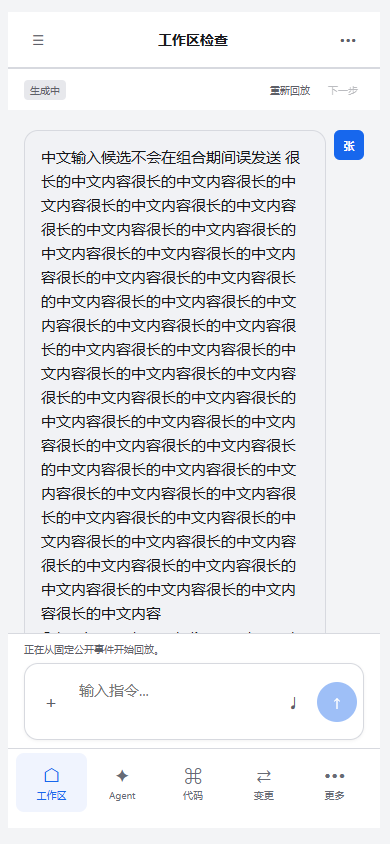
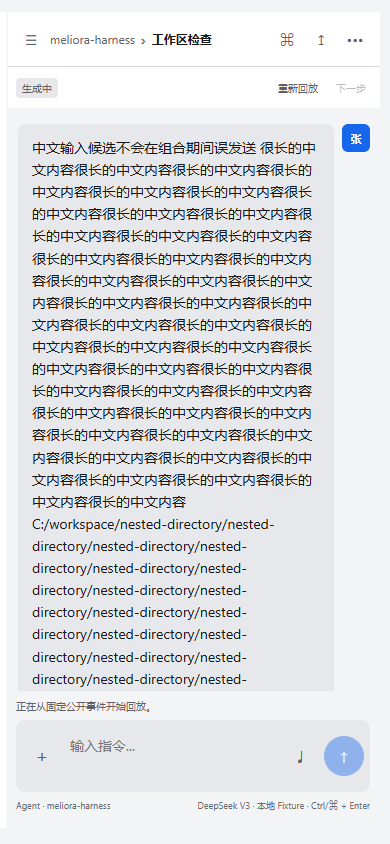
revert(web): restore responsive shell navigation

diff --git a/apps/web/src/dark-shell.css b/apps/web/src/dark-shell.css
@@ -18,7 +18,7 @@ button,input,textarea,select{font:inherit;color:inherit}button{border:0;backgrou
 
 .center-panel{display:flex;flex-direction:column;background:var(--page);border-inline:1px solid var(--line)}
 .conversation-header{height:58px;display:flex;align-items:center;justify-content:space-between;padding:0 20px;background:var(--panel);flex-shrink:0}.conversation-header>div{min-width:0;display:flex;align-items:center;gap:9px}.conversation-header span,.conversation-header strong{overflow:hidden;text-overflow:ellipsis;white-space:nowrap;font-size:12px}.conversation-header span{color:var(--secondary)}.conversation-header b{color:var(--muted)}.conversation-header nav{display:flex;gap:4px}.conversation-header button{width:30px;height:30px;border-radius:6px;color:var(--secondary)}
-.mobile-panel-button,.mobile-close,.mobile-backdrop,.mobile-bottom-nav{display:none}
+.mobile-panel-button,.mobile-close,.mobile-backdrop{display:none}
 .run-bar{height:39px;display:flex;align-items:center;gap:9px;padding:0 20px;color:var(--muted);font-size:10px;background:var(--panel);border-top:1px solid var(--line);flex-shrink:0}.run-bar button{margin-left:auto;color:var(--secondary);font-size:10px;padding:6px;border-radius:5px}.run-bar button+button{margin-left:0}.run-status{padding:3px 6px;border-radius:4px;background:var(--field);color:var(--secondary)}.run-status.completed{color:var(--green)}
 .message-stream{flex:1;min-height:0;overflow-y:auto;padding:30px 28px 36px;scrollbar-width:thin;scrollbar-color:var(--line) transparent}.message-column{width:min(760px,100%);margin:0 auto}.message{display:flex;gap:12px;margin-bottom:24px}.message-author{display:grid;place-items:center;width:30px;height:30px;flex-shrink:0;border-radius:6px;background:#343741;color:white;font-size:11px;font-weight:700}.message.user{flex-direction:row-reverse}.message.user .message-author{background:var(--blue)}.message-body{position:relative;max-width:86%;padding:17px 18px;border-radius:8px;background:var(--panel-2);line-height:1.65}.message.user .message-body{background:var(--field)}.message-body h2{margin:0 0 10px;font-size:16px}.message-body h3{margin:16px 0 7px;font-size:13px}.message-body p{margin:0}.message-body ul{margin:0;padding-left:19px}.message-body li{margin:5px 0}.message-actions{position:absolute;left:6px;bottom:-30px;display:flex;gap:3px;opacity:0;transform:translateY(-3px);transition:opacity 140ms ease,transform 140ms ease}.message:hover .message-actions,.message:focus-within .message-actions{opacity:1;transform:none}.message-actions button{padding:5px 7px;border-radius:5px;color:var(--muted);font-size:9px}.message-actions button[aria-pressed="true"]{color:var(--blue);background:var(--field)}
 .timeline-empty{display:grid;justify-items:center;align-content:center;min-height:52vh;padding:40px;text-align:center;color:var(--secondary)}.timeline-empty>span{display:grid;place-items:center;width:42px;height:42px;margin-bottom:14px;border-radius:8px;background:var(--field);color:var(--blue);font-size:20px}.timeline-empty h2{margin:0;color:var(--text);font-size:18px}.timeline-empty p{margin:8px 0 18px;font-size:12px}.timeline-empty button{padding:8px 12px;border-radius:6px;background:var(--field);color:var(--text);font-size:11px}.timeline-loading{position:relative;display:grid;grid-template-columns:30px minmax(0,1fr);gap:12px;align-items:start;margin:6px 42px 18px;color:var(--muted);font-size:10px}.timeline-loading .loading-avatar{width:30px;height:30px;border-radius:6px;background:var(--field);animation:loading-pulse 1.2s ease-in-out infinite}.timeline-loading>div{display:grid;gap:8px;padding-top:3px}.timeline-loading>div span{height:8px;border-radius:4px;background:var(--field);animation:loading-pulse 1.2s ease-in-out infinite}.timeline-loading>div span:nth-child(2){width:78%;animation-delay:100ms}.timeline-loading>div span:nth-child(3){width:52%;animation-delay:200ms}.timeline-loading p{grid-column:2;margin:0}@keyframes loading-pulse{50%{opacity:.45}}
@@ -41,8 +41,7 @@ dialog{border:0;color:var(--text);background:var(--panel-2)}dialog::backdrop{bac
 
 @media(max-width:1100px){.app-shell{grid-template-columns:230px minmax(520px,1fr) 0}.app-shell.sidebar-collapsed{grid-template-columns:56px minmax(520px,1fr) 0}.right-panel{display:flex;position:fixed;z-index:30;top:var(--safe-top);right:var(--safe-right);bottom:var(--safe-bottom);width:min(360px,90vw);height:auto;transform:translateX(105%);transition:transform 180ms ease}.app-shell.mobile-code-open .right-panel{transform:translateX(0)}.mobile-code-open .mobile-backdrop{display:block;position:fixed;inset:0;z-index:25;background:#0009}.mobile-code-trigger,.right-panel .mobile-close{display:block}.right-panel .mobile-close{position:absolute;z-index:4;right:7px;top:7px;width:30px;height:30px;border-radius:6px;background:var(--field)}}
 @media(max-width:768px),(orientation:landscape) and (max-height:500px){.app-shell,.app-shell.sidebar-collapsed{display:block}.left-panel,.right-panel{display:flex;position:fixed;z-index:30;top:var(--safe-top);bottom:var(--safe-bottom);width:min(360px,calc(100vw - var(--safe-left) - var(--safe-right) - 24px));height:auto;transition:transform 180ms ease}.left-panel{left:var(--safe-left);transform:translateX(-105%);align-items:stretch}.right-panel{right:var(--safe-right);transform:translateX(105%)}.app-shell.mobile-nav-open .left-panel,.app-shell.mobile-code-open .right-panel{transform:translateX(0)}.mobile-nav-open .mobile-backdrop,.mobile-code-open .mobile-backdrop{display:block;position:fixed;inset:0;z-index:25;background:#0009}.mobile-nav-trigger,.mobile-code-trigger{display:block}.sidebar-collapsed .sidebar-user{padding:10px 12px;justify-content:flex-start}.sidebar-collapsed .user-copy,.sidebar-collapsed .sidebar-user>.icon-button:not(.collapse-button),.sidebar-collapsed .sidebar-scroll,.sidebar-collapsed .sidebar-footer{display:flex}.sidebar-collapsed .sidebar-scroll{display:block}.sidebar-collapsed .user-copy{display:block}.sidebar-collapsed .sidebar-footer{display:block}.sidebar-collapsed .footer-tools,.sidebar-collapsed .team-card{display:flex}.sidebar-collapsed .collapse-button{position:static}.sidebar-collapsed .collapsed-rail{display:none}.center-panel{height:100%;border:0}.message-stream{padding:20px 12px}.event-flow{margin-inline:0}.message-body{max-width:90%}.composer-area{padding-inline:max(8px,var(--safe-left));padding-right:max(8px,var(--safe-right))}.composer-area form{grid-template-columns:32px minmax(0,1fr) 32px 38px}.model-picker{display:none}.conversation-header{padding-left:max(8px,var(--safe-left));padding-right:max(8px,var(--safe-right));gap:4px}.conversation-header>div{flex:1}.run-bar{padding-inline:12px}.message-actions{position:static;opacity:1;transform:none;margin-top:10px}}
-@media(max-width:768px),(orientation:landscape) and (max-height:500px){.left-panel{width:min(320px,80vw);border-radius:0 14px 14px 0;border-right:1px solid var(--line)}.right-panel{left:var(--safe-left);right:var(--safe-right);width:auto;border-radius:0;transform:translateX(105%)}.mobile-code-open .mobile-backdrop{background:transparent;pointer-events:none}.conversation-header{position:relative;height:56px;border-bottom:1px solid var(--line)}.conversation-header>div{justify-content:center}.conversation-header>div span,.conversation-header>div b{display:none}.conversation-header>div strong{font-size:14px;font-weight:600}.conversation-header nav .mobile-code-trigger,.conversation-header nav .share-action{display:none}.conversation-header nav .more-action{display:block}.mobile-nav-trigger,.more-action{width:44px!important;height:44px!important}.message-stream{padding-inline:16px}.message-body{font-size:14px}.event-card{border:1px solid var(--line);border-left-width:1px;border-radius:12px;background:var(--panel);font-size:14px}.event-card.completed{border-left:3px solid var(--green)}.event-card.failed{border-left:3px solid var(--red)}.event-card.approval{border-left:3px solid #e0a739}.tool-card{border-left:3px solid var(--blue)}.event-card h3{font-size:15px}.event-card code,.event-card small,.event-line{font-size:12px}.event-card li{min-height:40px;display:flex;align-items:center;border-bottom:1px solid var(--line)}.event-card li:last-child{border-bottom:0}.composer-area{padding:8px 16px;background:var(--panel);border-top:1px solid var(--line)}.composer-area form{border:1px solid var(--line);border-radius:14px;background:var(--panel);box-shadow:0 1px 3px #0000000d}.composer-area form:focus-within{background:var(--panel);border-color:var(--blue);box-shadow:0 0 0 3px rgba(37,99,235,.1)}.composer-meta{display:none}.mobile-bottom-nav{display:grid;grid-template-columns:repeat(5,minmax(0,1fr));height:calc(64px + var(--safe-bottom));padding:4px max(8px,var(--safe-right)) var(--safe-bottom) max(8px,var(--safe-left));flex-shrink:0;background:var(--panel);border-top:1px solid var(--line)}.mobile-bottom-nav button{display:flex;min-width:0;min-height:56px;flex-direction:column;align-items:center;justify-content:center;gap:3px;border-radius:8px;color:var(--muted)}.mobile-bottom-nav button span{height:22px;font-size:18px;line-height:22px}.mobile-bottom-nav button small{font-size:10px;line-height:12px}.mobile-bottom-nav button[aria-current="page"]{color:var(--blue);background:rgba(37,99,235,.07)}.right-tabs{height:56px;padding-left:52px;padding-right:12px}.right-tabs button{height:56px;font-size:14px}.right-panel .mobile-close{left:8px;right:auto;top:6px;width:44px;height:44px;background:transparent;font-size:22px}.changes-empty,.preview-empty{padding:32px 20px}.changes-empty h3,.preview-empty h3{font-size:17px;color:var(--text)}.changes-empty p,.preview-empty p{font-size:14px;line-height:1.6}.changes-empty small,.preview-empty small{font-size:12px}.virtual-keyboard-open .mobile-bottom-nav{display:none}.virtual-keyboard-open .composer-area{padding-bottom:max(8px,var(--safe-bottom))}}
-@media(max-width:480px) and (orientation:portrait){.conversation-header{height:56px}.conversation-header>div{gap:6px}.run-bar{height:42px;padding-inline:16px;gap:6px}.run-bar>span:nth-child(2){display:none}.message-stream{padding:20px 16px 24px}.message{gap:8px;margin-bottom:20px}.message-author{width:30px;height:30px}.message-body{max-width:calc(100% - 38px);padding:14px 16px;border:1px solid var(--line);border-radius:14px;background:var(--panel);font-size:15px;line-height:1.6}.message.user .message-body{background:var(--panel-2)}.message-body h2{font-size:17px}.message-body h3{font-size:15px}.event-flow,.reconnect-banner{margin-inline:0}.event-flow>article{margin-bottom:16px}.event-card{padding:15px 16px}.timeline-loading{margin-inline:0}.timeline-empty{min-height:44vh;padding:32px 16px}.timeline-empty h2{font-size:19px}.timeline-empty p{font-size:14px;line-height:1.6}.composer-area{padding:8px 16px}.composer-area form{grid-template-columns:40px minmax(0,1fr) 40px 40px;align-items:center;gap:4px;padding:5px 6px;border-radius:14px}.composer-area textarea{width:100%;min-width:0;min-height:42px;max-height:96px;padding:10px 4px;resize:none;font-size:15px}.attachment-button,.voice-button,.send-button{width:40px;height:40px}.privacy-notice{right:8px;bottom:max(8px,var(--safe-bottom));width:calc(100% - 16px)}}
+@media(max-width:480px) and (orientation:portrait){.conversation-header{height:54px}.conversation-header>div{gap:6px}.run-bar{height:42px;padding-inline:8px;gap:6px}.run-bar>span:nth-child(2){display:none}.message-stream{padding:16px 10px 20px}.message{gap:8px;margin-bottom:18px}.message-author{width:28px;height:28px}.message-body{max-width:calc(100% - 36px);padding:13px 14px;line-height:1.58}.event-flow,.reconnect-banner{margin-inline:0}.event-card{padding:12px 13px}.timeline-loading{margin-inline:0}.timeline-empty{min-height:48vh;padding:24px 16px}.composer-area{padding-top:8px}.composer-area form{grid-template-columns:40px minmax(0,1fr) 40px 40px;align-items:center;gap:4px;padding:6px;border-radius:10px}.composer-area textarea{width:100%;min-width:0;min-height:40px;max-height:96px;padding:9px 4px;resize:none}.attachment-button,.voice-button,.send-button{width:40px;height:40px}.composer-meta{white-space:nowrap;overflow:hidden}.composer-meta span{overflow:hidden;text-overflow:ellipsis}.privacy-notice{right:8px;bottom:max(8px,var(--safe-bottom));width:calc(100% - 16px)}}
 @media(max-width:480px) and (orientation:portrait) and (pointer:coarse){.composer-area form{grid-template-columns:44px minmax(0,1fr) 44px 44px}.attachment-button,.voice-button,.send-button{width:44px;height:44px}}
 @media(max-width:380px) and (orientation:portrait){.composer-meta{display:none}.conversation-header nav{gap:0}.run-bar button{padding-inline:4px}.message-body h2{font-size:15px}}
 @media(orientation:landscape) and (max-height:500px){.conversation-header{height:50px}.run-bar{height:36px}.message-stream{padding-block:12px}.composer-area{padding-top:6px;padding-bottom:6px}.composer-meta{display:none}.sidebar-user{height:54px}.sidebar-footer{padding-block:6px}.privacy-notice{max-height:calc(100% - 24px);overflow:auto}}

diff --git a/apps/web/src/main.tsx b/apps/web/src/main.tsx
@@ -3,7 +3,6 @@ import { createRoot } from "react-dom/client";
 import type { PublicRunEvent } from "../../../packages/agent-runtime/public-events";
 import { Sidebar } from "./Sidebar";
 import { RightPanel } from "./RightPanel";
-import { MobileBottomNav, type MobileDestination } from "./MobileBottomNav";
 import { addProject, defaultLibrary, newChat, parseLibrary, type Chat, type Library, type Project } from "./projects";
 import { labels, publicEvents, resumePoint, scenarios, statusOf, streamFor, type Scenario } from "./replay";
 import { installViewportEnvironment, SINGLE_PANE_MEDIA } from "./viewport";
@@ -32,8 +31,6 @@ function App() {
   const [playing, setPlaying] = useState(false);
   const [collapsed, setCollapsed] = useState(false);
   const [mobilePanel, setMobilePanel] = useState<"nav" | "code" | null>(null);
-  const [mobileHome, setMobileHome] = useState<"workspace" | "agent">("workspace");
-  const [inspectorTab, setInspectorTab] = useState<"changes" | "preview">("changes");
   const [notice, setNotice] = useState("");
   const [noticeVisible, setNoticeVisible] = useState(true);
   const [voiceActive, setVoiceActive] = useState(false);
@@ -186,18 +183,6 @@ function App() {
     window.requestAnimationFrame(() => composerInput.current?.scrollIntoView({ block: "nearest" }));
   }
 
-  function selectMobileDestination(destination: MobileDestination) {
-    if (destination === "more") { setMobilePanel("nav"); return; }
-    if (destination === "code" || destination === "changes") {
-      setInspectorTab(destination === "code" ? "preview" : "changes");
-      setMobilePanel("code");
-      return;
-    }
-    setMobilePanel(null);
-    setMobileHome(destination);
-    if (destination === "agent") window.requestAnimationFrame(() => composerInput.current?.focus());
-  }
-
   function renderEvent(event: PublicRunEvent): React.ReactNode {
     switch (event.kind) {
       case "run_status_changed": return <p className="event-line">状态更新 · {labels[event.payload.status]} {event.payload.reason && <code>{event.payload.reason}</code>}</p>;
@@ -223,7 +208,7 @@ function App() {
     <aside className="left-panel"><Sidebar library={library} collapsed={collapsed} theme={theme} userName={userName} userAvatar={userAvatar} onSelect={(id) => { openChat(id); setMobilePanel(null); }} onCollapse={() => window.matchMedia(SINGLE_PANE_MEDIA).matches ? setMobilePanel(null) : setCollapsed((value) => !value)} onNewAgent={() => { createAgent(); setMobilePanel(null); }} onNewProject={() => showDialog("project")} onTheme={setTheme} onAutomations={() => showDialog("automations")} onCustomize={() => showDialog("customize")} onReveal={() => setMobilePanel("nav")}/></aside>
 
     <main className="center-panel">
-      <header className="conversation-header"><button className="mobile-panel-button mobile-nav-trigger" aria-label="打开导航" onClick={() => setMobilePanel("nav")}>☰</button><div><span>{activeProject.name}</span><b>›</b><strong>{activeChat.title}</strong></div><nav aria-label="对话操作"><button className="mobile-panel-button mobile-code-trigger" aria-label="打开代码面板" onClick={() => setMobilePanel("code")}>⌘</button><button className="share-action" aria-label="分享" onClick={() => setNotice("分享功能等待真实服务接入。")}>↥</button><button className="more-action" aria-label="更多操作" onClick={() => setNotice("更多操作将在下一版接入。")}>•••</button></nav></header>
+      <header className="conversation-header"><button className="mobile-panel-button mobile-nav-trigger" aria-label="打开导航" onClick={() => setMobilePanel("nav")}>☰</button><div><span>{activeProject.name}</span><b>›</b><strong>{activeChat.title}</strong></div><nav aria-label="对话操作"><button className="mobile-panel-button mobile-code-trigger" aria-label="打开代码面板" onClick={() => setMobilePanel("code")}>⌘</button><button aria-label="分享" onClick={() => setNotice("分享功能等待真实服务接入。")}>↥</button><button aria-label="更多操作" onClick={() => setNotice("更多操作将在下一版接入。")}>•••</button></nav></header>
       <div className="run-bar"><span className={`run-status ${runStatus}`}>{playing ? "生成中" : labels[runStatus]}</span><span>固定公开事件</span><button onClick={replay}>重新回放</button><button disabled={playing || eventCount >= source.length} onClick={() => setEventCount((count) => count + 1)}>下一步</button></div>
 
       <section className="message-stream" aria-label="消息流">
@@ -247,11 +232,10 @@ function App() {
         <label className="model-picker"><span className="sr-only">模型</span><select value={modelName} onChange={(event) => setModelName(event.target.value)}><option>DeepSeek V3</option><option>Kimi K2</option><option>MiniMax M2</option></select></label>
         <button className="send-button" aria-label="发送" disabled={!draft.trim() || playing}>↑</button>
       </form><div className="composer-meta"><span>Agent · {activeProject.name}</span><span>{modelName} · 本地 Fixture · Ctrl/⌘ + Enter</span></div></footer>
-      <MobileBottomNav active={mobilePanel === "nav" ? "more" : mobilePanel === "code" ? (inspectorTab === "changes" ? "changes" : "code") : mobileHome} onSelect={selectMobileDestination}/>
     </main>
 
     <button className="mobile-backdrop" aria-label="关闭侧面板" onClick={() => setMobilePanel(null)}/>
-    <aside className="right-panel"><button className="mobile-close" aria-label="关闭代码面板" onClick={() => setMobilePanel(null)}>×</button><RightPanel projectName={activeProject.name} chatTitle={activeChat.title} activeTab={inspectorTab} onActiveTabChange={setInspectorTab} noticeVisible={noticeVisible} onCloseNotice={() => setNoticeVisible(false)}/></aside>
+    <aside className="right-panel"><button className="mobile-close" aria-label="关闭代码面板" onClick={() => setMobilePanel(null)}>×</button><RightPanel projectName={activeProject.name} chatTitle={activeChat.title} noticeVisible={noticeVisible} onCloseNotice={() => setNoticeVisible(false)}/></aside>
 
     <dialog ref={settingsDialog} className="settings-dialog" onCancel={() => setDialogMode(null)}>
       <button className="dialog-close" onClick={() => setDialogMode(null)}>×</button>

diff --git a/apps/web/src/RightPanel.tsx b/apps/web/src/RightPanel.tsx
@@ -1,15 +1,14 @@
-import React, { useRef } from "react";
+import React, { useRef, useState } from "react";
 
 interface RightPanelProps {
   projectName: string;
   chatTitle: string;
   onCloseNotice: () => void;
   noticeVisible: boolean;
-  activeTab: "changes" | "preview";
-  onActiveTabChange: (tab: "changes" | "preview") => void;
 }
 
 export function RightPanel(props: RightPanelProps) {
+  const [activeTab, setActiveTab] = useState<"changes" | "preview">("changes");
   const changesTab = useRef<HTMLButtonElement>(null);
   const previewTab = useRef<HTMLButtonElement>(null);
 
@@ -17,17 +16,17 @@ export function RightPanel(props: RightPanelProps) {
     if (!["ArrowLeft", "ArrowRight", "Home", "End"].includes(event.key)) return;
     event.preventDefault();
     const next = event.key === "ArrowLeft" || event.key === "Home" ? "changes" : "preview";
-    props.onActiveTabChange(next);
+    setActiveTab(next);
     (next === "changes" ? changesTab : previewTab).current?.focus();
   }
 
   return <>
     <div className="right-tabs" role="tablist" aria-label="右侧面板">
-      <button ref={changesTab} role="tab" aria-selected={props.activeTab === "changes"} tabIndex={props.activeTab === "changes" ? 0 : -1} onKeyDown={selectAdjacentTab} onClick={() => props.onActiveTabChange("changes")}>变更</button>
-      <button ref={previewTab} role="tab" aria-selected={props.activeTab === "preview"} tabIndex={props.activeTab === "preview" ? 0 : -1} onKeyDown={selectAdjacentTab} onClick={() => props.onActiveTabChange("preview")}>预览</button>
+      <button ref={changesTab} role="tab" aria-selected={activeTab === "changes"} tabIndex={activeTab === "changes" ? 0 : -1} onKeyDown={selectAdjacentTab} onClick={() => setActiveTab("changes")}>变更</button>
+      <button ref={previewTab} role="tab" aria-selected={activeTab === "preview"} tabIndex={activeTab === "preview" ? 0 : -1} onKeyDown={selectAdjacentTab} onClick={() => setActiveTab("preview")}>预览</button>
       <span className="right-tools">⌁　↗　◫</span>
     </div>
-    {props.activeTab === "changes" ? <div className="changes-empty" role="status"><span aria-hidden="true">◇</span><h3>暂无文件变更</h3><p>当前 fixture 只回放公开运行事件，尚未提供 Diff。</p><small>产生真实变更后，这里将显示文件与行级差异。</small></div> : <div className="preview-empty"><span>◫</span><h3>浏览器预览</h3><p>{props.projectName} / {props.chatTitle}</p><small>连接本地预览服务后在这里显示页面。</small></div>}
+    {activeTab === "changes" ? <div className="changes-empty" role="status"><span aria-hidden="true">◇</span><h3>暂无文件变更</h3><p>当前 fixture 只回放公开运行事件，尚未提供 Diff。</p><small>产生真实变更后，这里将显示文件与行级差异。</small></div> : <div className="preview-empty"><span>◫</span><h3>浏览器预览</h3><p>{props.projectName} / {props.chatTitle}</p><small>连接本地预览服务后在这里显示页面。</small></div>}
     {props.noticeVisible && <aside className="privacy-notice" role="status">
       <button className="notice-close" aria-label="关闭通知" onClick={props.onCloseNotice}>×</button>
       <h3>分析与 Cookie</h3>

diff --git a/apps/web/verification/RESULTS.md b/apps/web/verification/RESULTS.md
@@ -63,7 +63,6 @@
 - 1440px PC 三栏；1100px Inspector Drawer；768px、390px单栏双 Drawer。
 - 390×844 竖屏与 844×390 矮横屏；横屏快捷键可打开 Workspace Drawer。
 - 鸿蒙手机比例浏览器基线新增 360×780、432×960 竖屏与 960×432 横屏；窄屏 Composer、全高双 Drawer 和短横屏内容均无页面级横向溢出。
-- 手机信息架构重新组织为单栏 Agent 工作区、固定 Composer、五项 Bottom Navigation、80% Workspace Drawer 与全屏 Code / Changes 面板；键盘状态下 Bottom Navigation 隐藏。
 - `viewport-fit=cover`、四向 `safe-area-inset` 0 回退及注入安全区 fixture。
 - `VisualViewport` 能力检测、`100dvh/100vh` 回退与 390×520 软键盘缩放；Composer 保持可见、焦点与输入不丢失。
 - `compositionstart` / `compositionend` 中文 IME guard；组合期间 Ctrl+Enter 不发送，结束后正常发送。
@@ -78,7 +77,6 @@
 - `web-390-safe-area.png`、`web-390-keyboard.png`
 - `web-844x390-landscape.png`、`web-200-percent-zoom.png`
 - `web-harmony-360x780.png`、`web-harmony-432x960.png`、`web-harmony-960x432-landscape.png`
-- `web-harmony-mobile-workspace-drawer.png`、`web-harmony-mobile-code.png`、`web-harmony-mobile-changes.png`
 
 ### HarmonyOS 设备状态
 

diff --git a/docs/frontend/VISUAL_SYSTEM.md b/docs/frontend/VISUAL_SYSTEM.md
@@ -183,7 +183,6 @@ Web 提供同一公开事件模型下的两种有意义形态，不按 UA 复制
 - PC：1440px 保持 Workspace / Conversation / Inspector 三栏；1100px 及以下将 Inspector 降级为可关闭 Drawer。
 - 手机：768px、390px以及高度不超过 500px 的横屏使用单栏 Conversation；Workspace 与 Inspector 都通过独立 Drawer 打开。
 - 鸿蒙手机比例基线额外覆盖 360×780、390×844、432×960 的窄长竖屏，以及 780×360、844×390、960×432 的短横屏。抽屉宽度从实际 CSS viewport 和安全区计算；Composer 在 360–432px 宽度保留可输入空间，固定控件不挤压文本区。
-- 手机信息架构为单栏 Conversation、固定 Composer 和五项 Bottom Navigation。Workspace / More 打开不超过 320px 的左侧 Drawer；Code / Changes 打开独立全屏移动面板。软键盘出现时隐藏 Bottom Navigation，把可视高度优先留给输入与当前任务。
 - 形态选择只使用 CSS media query、`matchMedia` 和 Web capability detection，禁止根据 HarmonyOS、Android、iOS 或浏览器 UA 分支布局。
 
 系统浏览器与 ArkWeb 基线：

diff --git a/apps/web/README.md b/apps/web/README.md
@@ -27,7 +27,6 @@ npm.cmd run dev
 - BoardUI 仅依照可见信息架构参考；未复制商业模板源码。
 - PC/手机使用同一 fixture 数据但采用不同布局：1440px 三栏，1100px Inspector Drawer，768/390px 与矮横屏为单栏双 Drawer。
 - viewport 支持安全区回退、VisualViewport 软键盘高度、横竖屏、粗指针触摸目标、200% zoom 与长中文/路径溢出。
-- 手机端使用单栏工作区、固定 Composer 与五项 Bottom Navigation；Workspace 使用左侧 Drawer，Code / Changes 使用全屏移动面板。键盘打开时底部导航自动让位。
 - 中文输入法 composition 期间不会由 Ctrl/Command + Enter 误发送。
 
 尚未接真实 HTTP/SSE、完整 RunSnapshot、ApprovalRequest 和 Artifact API；这里的重连是固定事件恢复演示。不要将演示通过表述为后端端到端验收。
